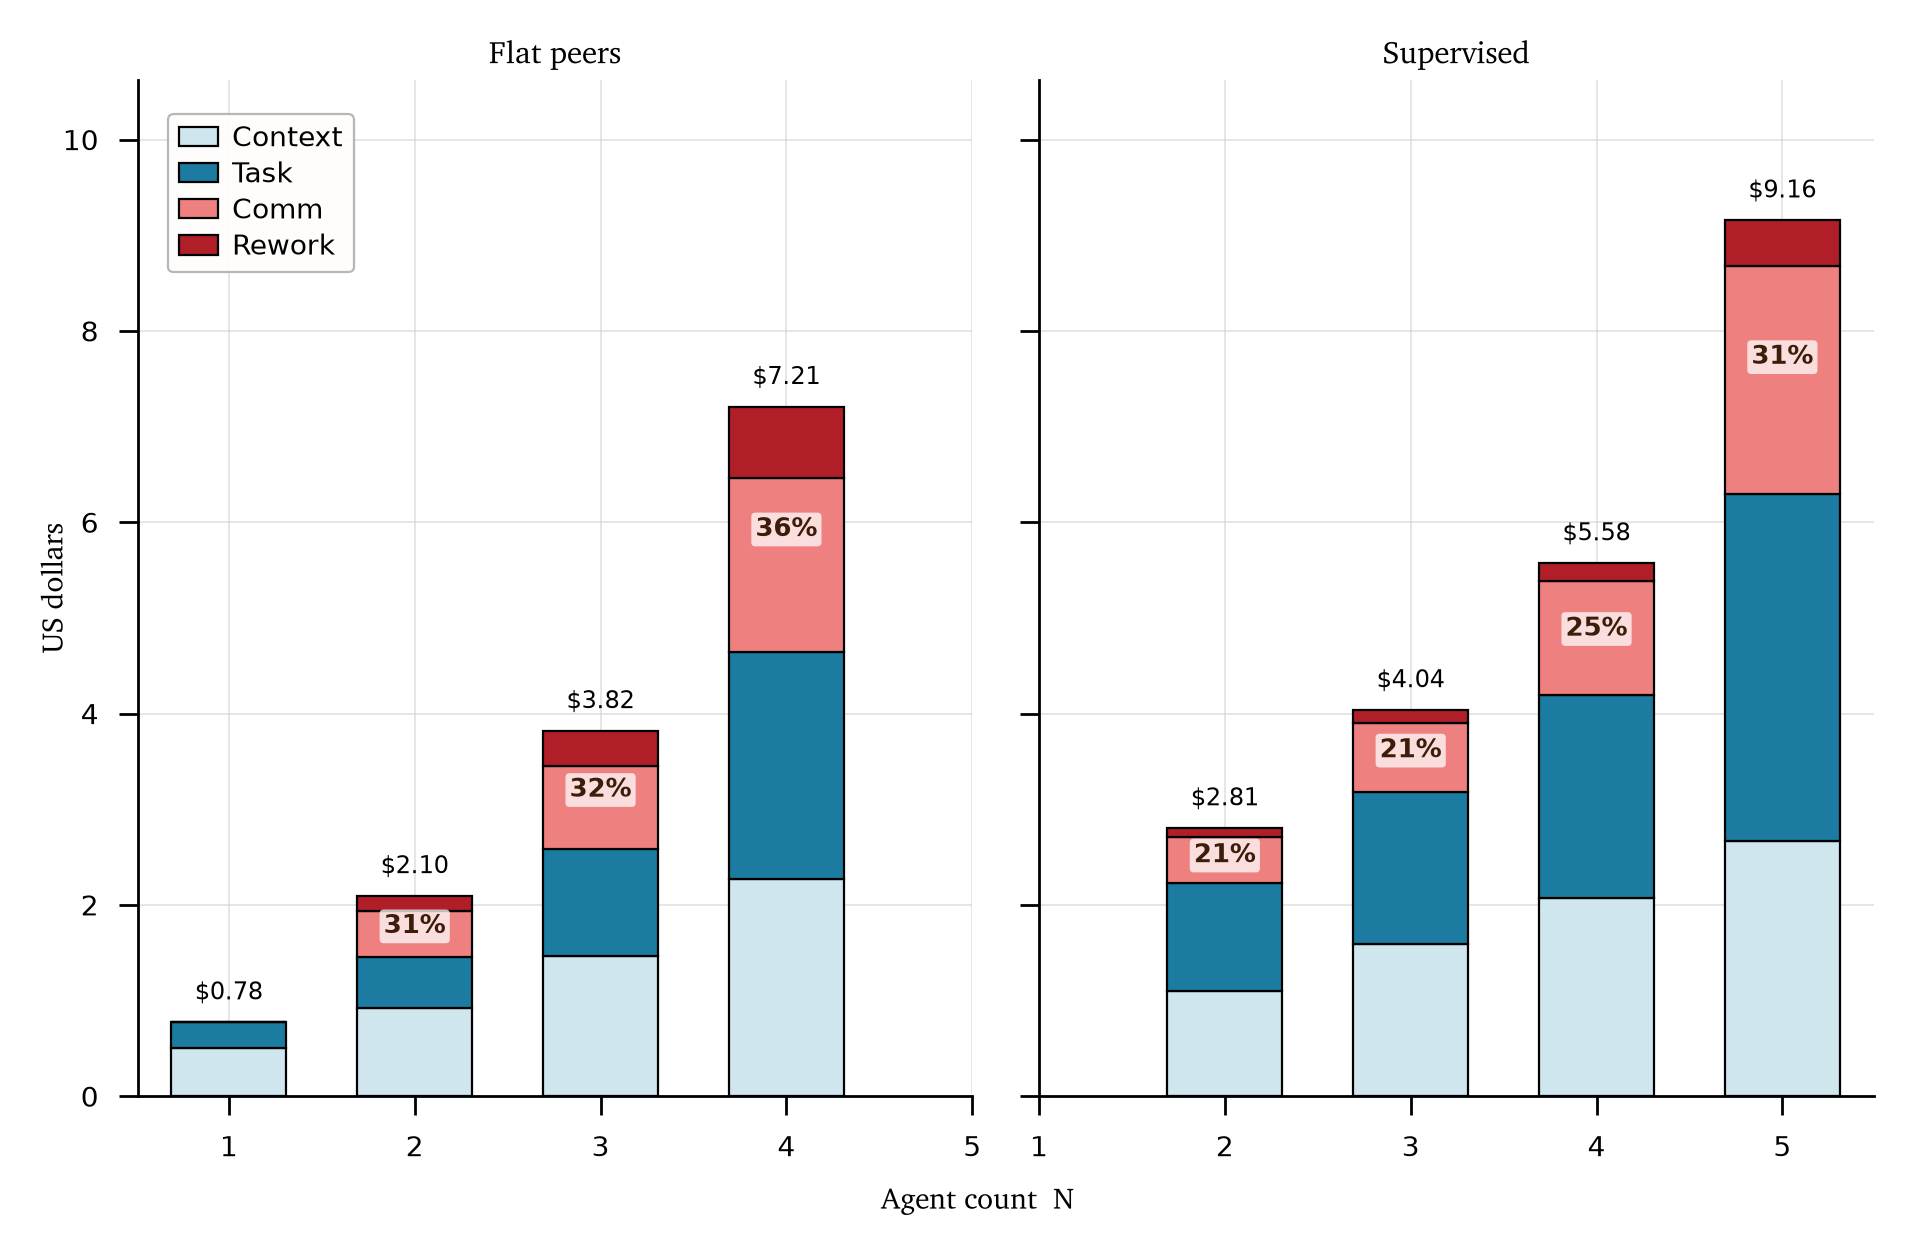
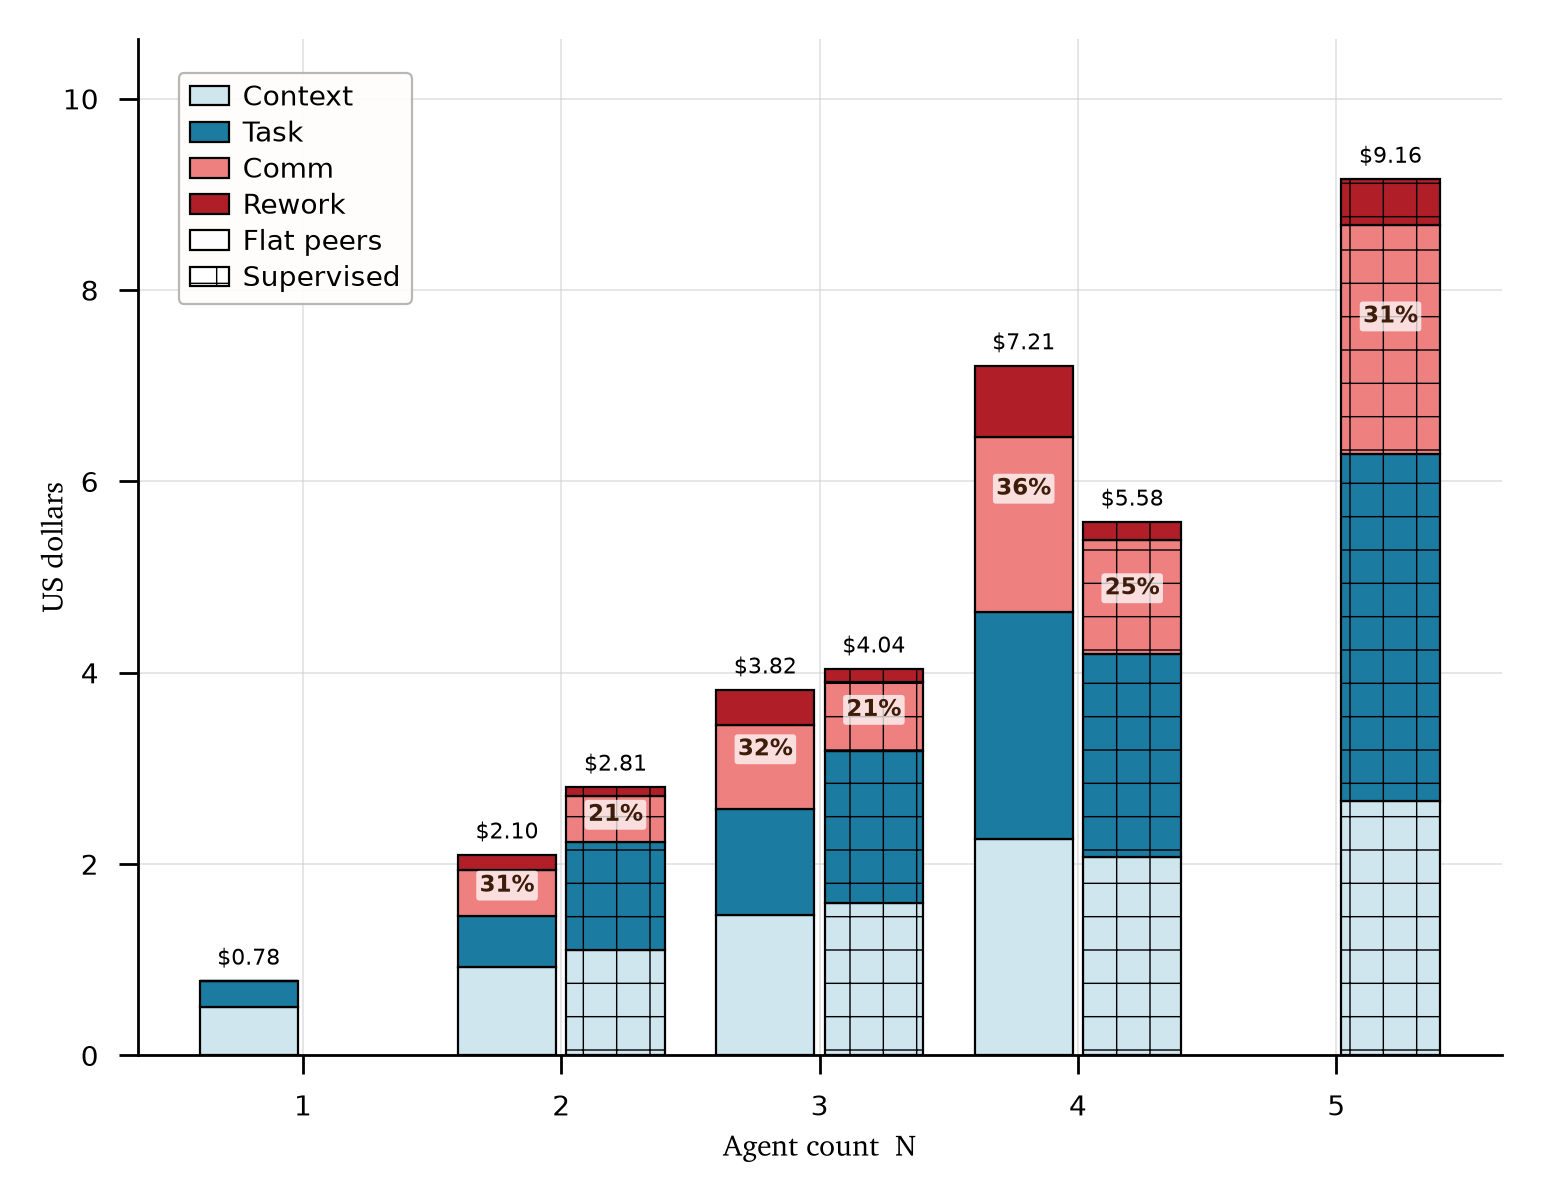
fig3c: back to one axis, supervised marked with a fine grid
Reverts the small-multiples split — a single axis puts the two arms
side by side at each team size, so the cost crossover reads directly
off adjacent bars. The texture problem was weight, not principle:
swap the default-weight diagonal hatch for a sparse cross-hatch at
0.25 stroke, which marks the supervised bars without competing with
the account fills. hatch.linewidth is a global rcParam, so it is set
and restored around the figure.

diff --git a/masters_thesis/leader_analysis/figures.py b/masters_thesis/leader_analysis/figures.py
@@ -263,41 +263,45 @@ def figure3b(recs):
 # it provokes). The label on the warm cap is that tax's share of the run.
 def figure3c(accts):
     dec = calc6_accounts(accts)
-    panels = [("flat", "Flat peers"), ("leader", "Supervised")]
-    ymax = max(v["total"] for v in dec.values()) * 1.16
-
-    fig, axes = plt.subplots(1, 2, figsize=(5.6, 3.3), sharey=True)
-    for ax, (arm, title) in zip(axes, panels):
-        xs = sorted(n for (a, n) in dec if a == arm)
-        bottoms = {n: 0.0 for n in xs}
+    sizes = sorted({n for _, n in dec})
+    w = 0.38
+    # A fine cross-hatch marks the supervised arm. hatch.linewidth is global in
+    # matplotlib, so set it here and restore afterwards; 0.25 keeps the mesh
+    # readable as a texture without competing with the account fills the way
+    # the default-weight diagonal hatch did.
+    prev_hlw = plt.rcParams.get("hatch.linewidth", 1.0)
+    plt.rcParams["hatch.linewidth"] = 0.25
+    fig, ax = plt.subplots(figsize=(4.4, 3.3))
+    for off, arm, hatch in ((-w / 2 - 0.02, "flat", None), (w / 2 + 0.02, "leader", "++")):
+        xs, bottoms = [], {}
+        for n in sizes:
+            if (arm, n) in dec:
+                xs.append(n); bottoms[n] = 0.0
         for _label, key, colour in ACCOUNTS:
             hs = [dec[(arm, n)][key] for n in xs]
-            ax.bar(xs, hs, bottom=[bottoms[n] for n in xs], width=0.62,
-                   color=colour, edgecolor="black", linewidth=0.4, zorder=3)
+            ax.bar([x + off for x in xs], hs, bottom=[bottoms[n] for n in xs], width=w,
+                   color=colour, edgecolor="black", linewidth=0.4, zorder=3, hatch=hatch)
             for n, h in zip(xs, hs):
                 bottoms[n] += h
         for n in xs:
             tot = dec[(arm, n)]["total"]
-            ax.annotate(f"${tot:.2f}", (n, tot), textcoords="offset points", xytext=(0, 3),
-                        ha="center", va="bottom", fontsize=4.4, color="black", fontname="Helvetica")
+            ax.annotate(f"${tot:.2f}", (n + off, tot), textcoords="offset points", xytext=(0, 2),
+                        ha="center", va="bottom", fontsize=4.0, color="black", fontname="Helvetica")
             cap = dec[(arm, n)]["comm"] + dec[(arm, n)]["rework"]
             if cap > 0:
-                ax.annotate(f"{dec[(arm, n)]['comm_rework_share']*100:.0f}%", (n, tot - cap / 2),
-                            ha="center", va="center", fontsize=4.6, color=INK, fontweight="bold",
+                ax.annotate(f"{dec[(arm, n)]['comm_rework_share']*100:.0f}%", (n + off, tot - cap / 2),
+                            ha="center", va="center", fontsize=4.2, color="#3d1c0a", fontweight="bold",
                             fontname="Helvetica",
-                            bbox=dict(boxstyle="round,pad=0.16", fc="white", ec="none", alpha=0.75))
-        ax.set_ylim(0, ymax)
-        _fig2_chrome(fig, ax, sorted({n for (_a, n) in dec}), "US dollars")
-        ax.set_title(title, fontsize=5.6, color="black", fontname="Charter", pad=3)
-    axes[1].set_ylabel("")  # shared axis: label once, on the left
-    # One centred x-label for the pair rather than the same words twice.
-    for ax in axes:
-        ax.set_xlabel("")
-    fig.supxlabel("Agent count  N", fontsize=5.3, color="black", fontname="Charter", y=0.02)
+                            bbox=dict(boxstyle="round,pad=0.14", fc="white", ec="none", alpha=0.75))
+    ax.set_ylim(0, max(v["total"] for v in dec.values()) * 1.16)
     handles = [Patch(facecolor=c, edgecolor="black", linewidth=0.4, label=lbl) for lbl, _k, c in ACCOUNTS]
-    _fig2_legend(axes[0], handles, loc="upper left", bbox=(0.02, 0.98))
-    fig.subplots_adjust(wspace=0.08)
-    return _save(fig, "fig3c_accounts_topology.png", facecolor="white")
+    handles += [Patch(facecolor="white", edgecolor="black", linewidth=0.4, label="Flat peers"),
+                Patch(facecolor="white", edgecolor="black", linewidth=0.4, hatch="++", label="Supervised")]
+    _fig2_chrome(fig, ax, sizes, "US dollars")
+    _fig2_legend(ax, handles, loc="upper left", bbox=(0.02, 0.98))
+    out = _save(fig, "fig3c_accounts_topology.png", facecolor="white")
+    plt.rcParams["hatch.linewidth"] = prev_hlw
+    return out
 
 
 # =========================================================================
